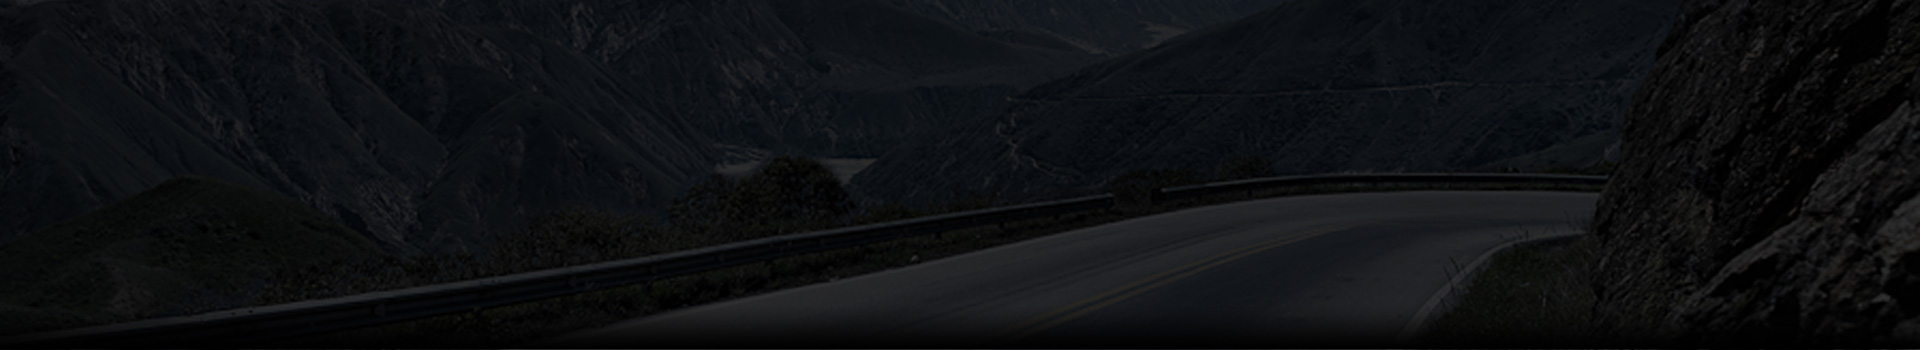
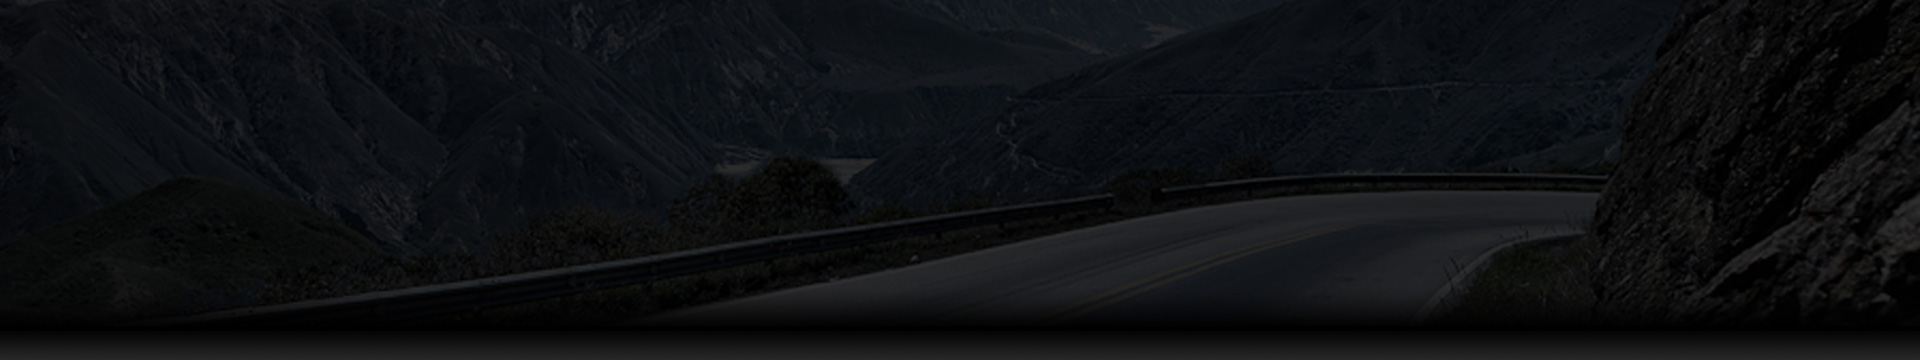
Imagenes background

diff --git a/sites/all/themes/juan_rueda/css/global.css b/sites/all/themes/juan_rueda/css/global.css
@@ -44,7 +44,7 @@ iframe{max-width: 100%}
 label {color: #FFFFFF;}
 #section-content {
     margin-bottom: 40px;
-    background-color: #222;
+    background-color: #2c2c2c;
 }
 
 #breadcrumb{
